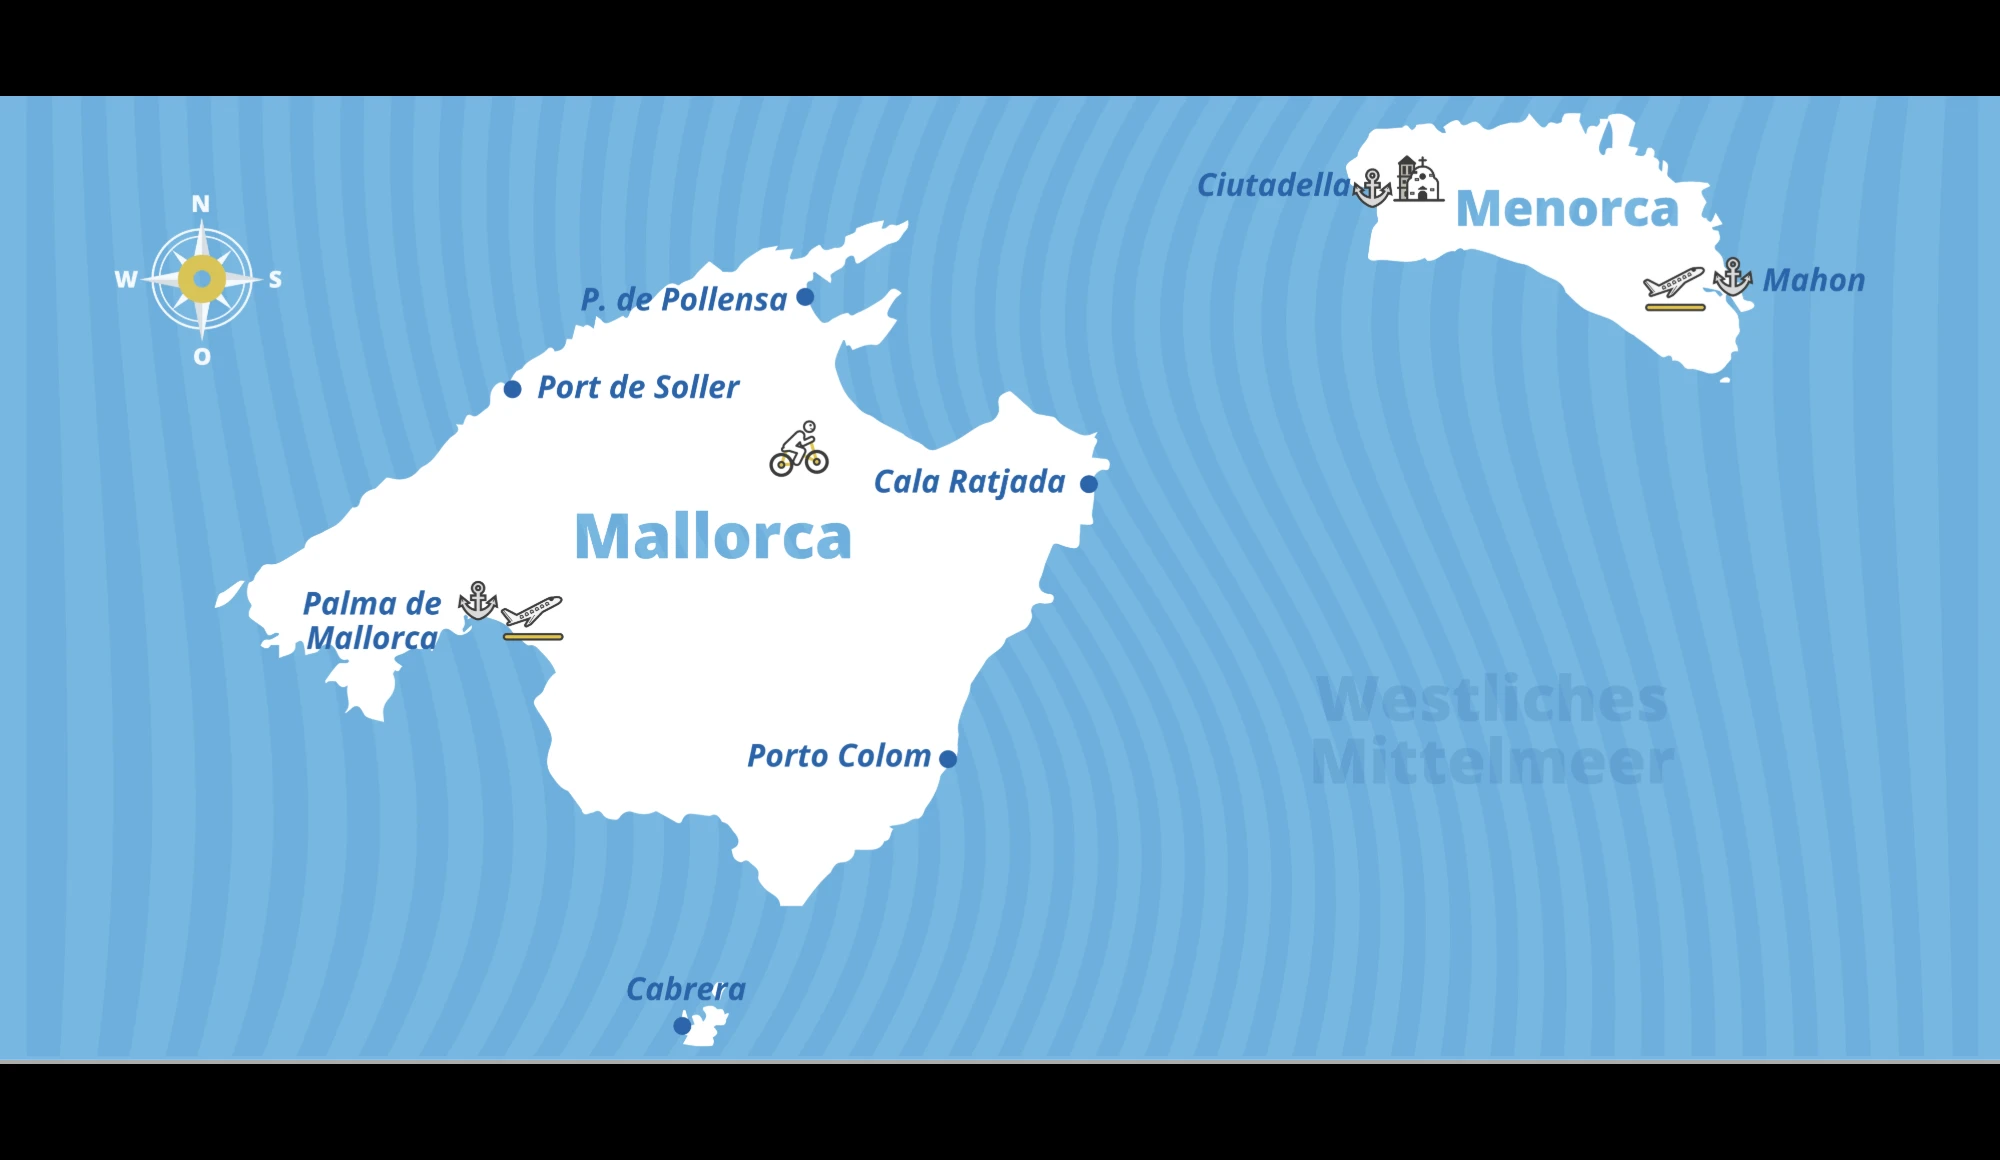
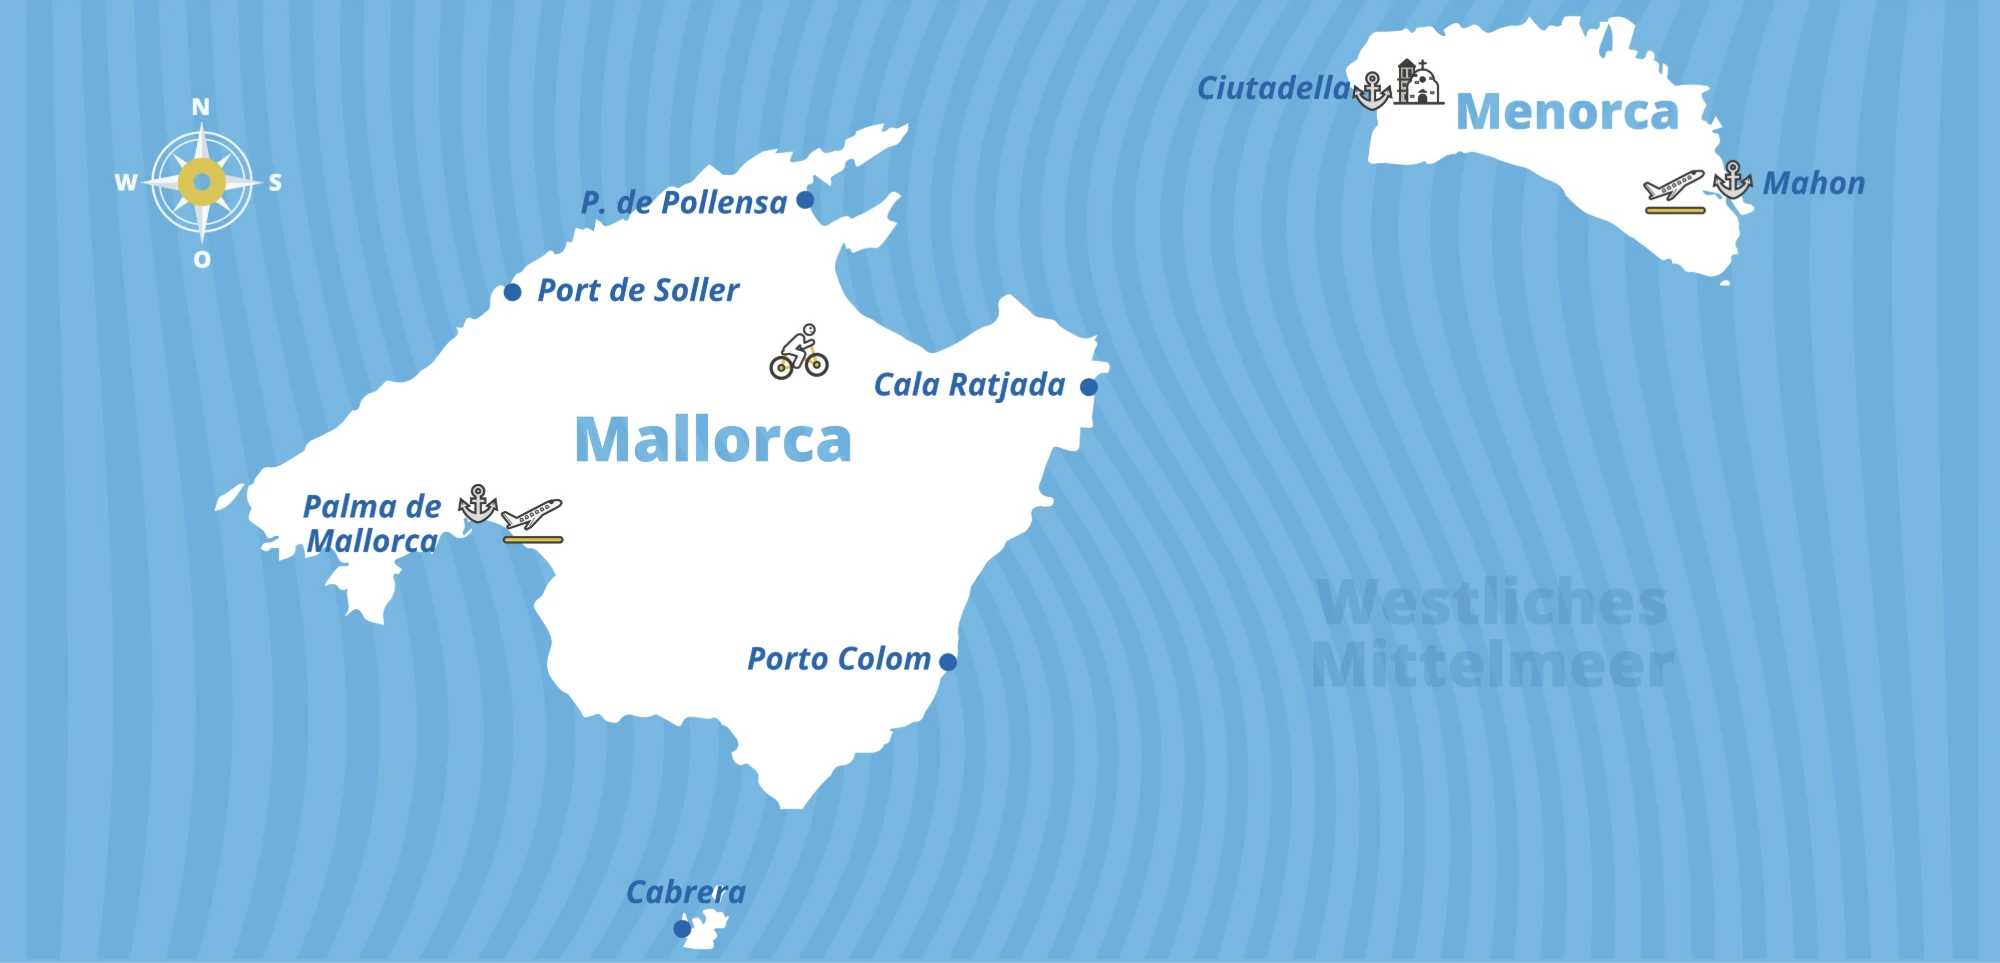
Improve trip report photos: fix map borders, new heroes, better images
- Fix black borders on the Mallorca/Menorca/Cabrera map graphic (DE),
  caused by transparent PNG areas rendering as black.
- Give Mallorca/Menorca/Cabrera a proper photo hero (fortress over the
  Cabrera anchorage) in both languages, and add the same photo inline
  near the Cabrera section with a translated, accessible caption.
- Use a wider, more scenic frame for the Dodecanese hero so water,
  land, and sky are all visible.
- Replace the harbor photo in the Split-to-Dubrovnik report with a
  sunset shot over Hvar, in both languages.

diff --git a/src/data/toernberichte.ts b/src/data/toernberichte.ts
@@ -195,7 +195,7 @@ export const toernberichte: Toernbericht[] = [
     title: "Dodekanes",
     teaser: "Eine faszinierende Reise durch die Inselwelt der östlichen Ägäis",
     cardImg: "/images/toernberichte/teaser/20190528_201228.jpg",
-    hero: "/images/toernberichte/eine-faszinierende-reise-durch-die-inselwelt-der-dodekanes-in-der-aegaeis/20190601_091540.jpg",
+    hero: "/images/toernberichte/eine-faszinierende-reise-durch-die-inselwelt-der-dodekanes-in-der-aegaeis/20190529_110554.jpg",
     blocks: [
       { t: "h", x: "Dodekanes" },
       { t: "h", x: "Eine faszinierende Reise durch die Inselwelt der Ägäis" },
@@ -312,7 +312,7 @@ export const toernberichte: Toernbericht[] = [
       { t: "p", x: "Das Frühstück wurde erst nach dem Ablegen während der Fahrt aufgetischt, was angesichts der ruhigen See sehr willkommen war. Das erste Statement bei frischem Brot und heißem Kaffee \"So traumhaft hätte ich es mir nicht vorgestellt\", war von einem weiblichen Crewmitglied zu hören.\n Wir nahmen Kurs auf die Passage von Hvar, und von dort ging es Richtung Südsüdost nach Korcula, jene Stadt, die auch unser Tagesziel war. Wie gerufen kam leichter Wind auf und wir setzten die Segel. So konnten wir mit der alleinigen Kraft des Windes bis zur Passage bei Hvar segeln." },
       { t: 'i', x: "/images/toernberichte/von-split-nach-dubrovnik/3_03.jpg", c: "Hvar (Stadt)" },
       { t: "p", x: "Und dann passierte etwas Unvorhergesehenes:\n Ein Crewmitglied entdeckte das merkwürdige Hin- und Herhüpfen der Tankanzeigenadel, das den Skipper stutzig machte, da beim Segeln in der Regel der Motor abgeschaltet ist.\n Der Versuch, den Motor zu starten, misslang. Aufgrund des schwachen Windes war daher an ein Erreichen von Korcula unter Segel an diesem Tag nicht mehr zu denken. Der örtliche Service-Dienst, der immer einsatzbereit ist, war schnell zur Stelle:\n Durch den starken Regen des Vortages war im Start-Panel des Motors ein Wasserschaden entstanden - die Steuerung wurde durch den Service-Dienst ausgewechselt. In dieser Zeit gab es für einen Teil der Crew die Möglichkeit die Stadt Hvar zu entdecken, während andere in der gegenüberliegenden Badebucht den ersten Sprung ins Wasser wagten.\n Der Austausch des Panels war am späten Nachmittag erledigt. Die Crew entschied sich den Tag in der naheliegenden Marina ausklingen zu lassen - bei einem ausgezeichneten Essen in einem der besten Lokale des Landes." },
-      { t: 'i', x: "/images/toernberichte/von-split-nach-dubrovnik/4.png", c: "Blick auf den Hafen von Hvar" },
+      { t: 'i', x: "/images/toernberichte/von-split-nach-dubrovnik/hvar-sonnenuntergang.jpg", c: "Sonnenuntergang über dem Hafen von Hvar" },
       { t: "h", x: "Tag 3 Montag - Das Ziel weiter vor Augen" },
       { t: "p", x: "An diesem Morgen war die Crew sich einig: heute sollten wir weit kommen. Das Ablegen erfolgte am Vormittag, erneut mit Kurs auf Korcula." },
       { t: "p", x: "Der Tag wurde zum Relaxtag an Bord mit Musik, viel Lesen und Sonnenanbeten. Vorbei nochmals an der beeindruckenden Stadt Hvar und ein wenig später durch die Passage von Korcula. Das dort gegenüberliegende Gebirge erreicht eine Höhe von knapp 1000m und ist imposant bei jedem Anblick. Der Tag war schon etwas fortgeschritten, als eine gemütliche Bucht auf der Insel Mljet in einem kleinen Nationalpark als Ziel sehr verlockend klang. Und so schafften wir kurz vor 18 Uhr das Anlegen an einer Boje, die im Besitz eines örtlichen Restaurants war." },
@@ -484,7 +484,7 @@ export const toernberichte: Toernbericht[] = [
     title: "Mallorca - Menorca - Cabrera",
     teaser: "Eine Entdeckungstour durch die nördlichen Balearen",
     cardImg: "/images/toernberichte/teaser/Cabrera_02.png",
-    hero: "/images/toernberichte/mallorca-menorca-cabrera/1.png",
+    hero: "/images/toernberichte/mallorca-menorca-cabrera/16.jpg",
     blocks: [
       { t: "h", x: "Tag 1 - Von Zuhause auf die Yacht in nur 6 Stunden" },
       { t: "p", x: "Sehr einfach ist die Anreise auf Palma de Mallorca - von zu Hause, über den Flughafen bis zur Yacht in nur 6 Stunden, da auch unsere Startmarina \"El Arenal\" nur wenige Kilometer vom Flughafen mit dem Taxi erreichbar ist. Nach der üblichen Versorgungsprozedur und dem Einchecken in die Yacht ist es bereits 17 Uhr geworden. Die Marina El Arenal bietet nicht nur einen Swimming-Pool und ein gemütliches Restaurant, sondern liegt auch am Ende einer der bekanntesten Partymeilen für uns deutschsprachige: der Ballermann. Zwar nicht unser Fokus auf diesem Urlaub, aber viele Crews kommen extra in diese Marina, um den Ballermann zu besuchen - also schauen auch wir uns das Spektakel an. Ein Lokal reiht sich dem anderen - ganze Partytempel sind am Ballermann zu finden. Für den ersten Abend ein gelungener Einstieg in unseren 14-tägigen Segelurlaub. Man kann Stunden und Tage am Ballermann verbringen - wir sind allerdings nur kurz Gast, denn am nächsten Tag geht es los zu unserer Inselumrundung." },
@@ -533,6 +533,7 @@ export const toernberichte: Toernbericht[] = [
       { t: "p", x: "Am Abend ankern wir in der Cala Marsal nähe Porto Colom. Eine kleine Badebucht mit Strand, dahinter eine Hotelanlage und ein paar wenige Läden für unseren Einkauf.\n Mit dem Beiboot fahren wir zum Sandstrand, wo uns die Badegäste etwas verwundert anschauen. Es dürfte nicht oft passieren, dass hier Yacht-Urlauber an Land gehen. Ein nahegelegenes Lokal spricht uns an, um dort einen Tisch für das Abendessen zu reservieren. Anschließend erledigen wir unseren Einkauf und gehen zurück an Bord um den Proviant zu verstauen.\n Ein schöner Segeltag findet einen herrlichen Abschluss bei Schwimmen und gutem Essen." },
       { t: "h", x: "Tag 13 - Einer der schönsten Plätze" },
       { t: "p", x: "Unser vorletzter Segeltag bricht an. Wir können bei dem anhaltenden leichten Wind wieder die Segel setzen mit Kurs Richtung Cabrera. Cabrera ist eine kleine Naturschutzinsel, die einst eine Gefängnisinsel war. Um auf ihr Anlegen zu können, haben wir bereits zu Reisebeginn eine Boje reserviert. Es gibt nur eine große Bucht auf der gesamten Insel, die mit der Yacht befahren werden darf.\n Im Laufe des Nachmittags erreichen wir unser Tagesziel. Beim Anlegemanöver fällt die Ruderanlage aus, womit wir gezwungen sind, die Notpinne einzusetzen. Sie ersetzt die Ruderanlage und greift direkt am Ruderblatt an - etwas mehr Muskelkraft ist zum Steuern notwendig, da keine Übersetzung mehr vorhanden ist, jedoch für unseren Skipper kein Problem.\n Die einmalige Naturschönheit von Cabrera lässt sich bei einem Rundgang auf der Insel genießen. Zu erklimmen gibt es eine Ruine, Wanderwege führen durch das Naturschutzgebiet. Da auch das Fischen verboten ist, sind die Meeresbewohner sind sehr zutraulich und nicht verschreckt, wenn man ins Wasser geht." },
+      { t: 'i', x: "/images/toernberichte/mallorca-menorca-cabrera/16.jpg", c: "Die alte Festung von Cabrera hoch über der Ankerbucht" },
       { t: 'i', x: "/images/toernberichte/mallorca-menorca-cabrera/15.png", c: "Cabrera" },
       { t: "h", x: "Tag 14 - Ab nach Hause" },
       { t: "p", x: "Unser letzter Tag an Bord unserer Yacht bricht an. Mit ausgefallener Ruderanlage, somit mit Notpinne und Autopilot, geht es Richtung heimwärts, direkt zum Hafen El Arenal. Unser Ziel, Mallorca und Menorca zu umrunden, ist geschafft. Die Eindrücke können nicht vielseitiger sein. Der Frage nachzukommen, was einem am besten gefallen hat, ist nicht einfach. Zu viele Eindrücke waren es in den letzten 14 Tagen. Jedoch überwiegen bei allen die Freude und die Gewissheit, wieder nach Mallorca und den Balearen für einen Segelurlaub zu kommen." },

diff --git a/src/data/toernberichteEn.ts b/src/data/toernberichteEn.ts
@@ -190,7 +190,7 @@ export const toernberichteEn: Toernbericht[] = [
     title: "The Dodecanese",
     teaser: "A fascinating journey through the islands of the eastern Aegean",
     cardImg: "/images/toernberichte/teaser/20190528_201228.jpg",
-    hero: "/images/toernberichte/eine-faszinierende-reise-durch-die-inselwelt-der-dodekanes-in-der-aegaeis/20190601_091540.jpg",
+    hero: "/images/toernberichte/eine-faszinierende-reise-durch-die-inselwelt-der-dodekanes-in-der-aegaeis/20190529_110554.jpg",
     blocks: [
       { t: "h", x: "The Dodecanese" },
       { t: "h", x: "A Fascinating Journey Through the Islands of the Aegean" },
@@ -306,7 +306,7 @@ export const toernberichteEn: Toernbericht[] = [
       { t: "p", x: "Breakfast wasn't served until after we'd cast off and were underway, which — with the sea this calm — was very welcome. Over fresh bread and hot coffee, the first comment of the day, from one of the female crew members, was: \"I never imagined it could be this gorgeous.\" We set a course through the Hvar channel, then continued south-southeast toward Korčula, our destination for the day. As if on cue, a light breeze picked up and we raised the sails, making it all the way to the Hvar channel on wind power alone." },
       { t: "i", x: "/images/toernberichte/von-split-nach-dubrovnik/3_03.jpg", c: "The town of Hvar" },
       { t: "p", x: "Then something unexpected happened. A crew member noticed the fuel gauge needle jumping strangely back and forth, which caught the skipper's attention, since the engine is normally off while sailing. An attempt to start the engine failed. With the wind this light, reaching Korčula under sail alone was no longer realistic for the day. The local service team, always ready to help, arrived quickly: heavy rain the day before had caused water damage to the engine's start panel, and the technicians swapped out the control unit on the spot. While that was underway, part of the crew got to explore the town of Hvar, while others took their first plunge into the swimming cove across the way. The panel swap was finished by late afternoon, and the crew decided to wrap up the day right there in the nearby marina — with an excellent dinner at one of the country's best restaurants." },
-      { t: "i", x: "/images/toernberichte/von-split-nach-dubrovnik/4.png", c: "A view of Hvar's harbor" },
+      { t: "i", x: "/images/toernberichte/von-split-nach-dubrovnik/hvar-sonnenuntergang.jpg", c: "Sunset over Hvar's harbor" },
       { t: "h", x: "Day 3, Monday – Eyes on the Prize" },
       { t: "p", x: "That morning the crew agreed: today we needed to cover real distance. We cast off in the late morning, once again bound for Korčula." },
       { t: "p", x: "The day turned into a relaxed one on board — music, plenty of reading, and sunbathing. We passed the striking town of Hvar once more, and a little later sailed through the Korčula channel. The mountains on the opposite shore rise to nearly 1,000 meters and look impressive from every angle. The day was already getting on when a cozy bay on the island of Mljet, inside a small national park, sounded irresistible as our next stop. We managed to tie up to a buoy — owned by a local restaurant — just before 6 p.m." },
@@ -478,7 +478,7 @@ export const toernberichteEn: Toernbericht[] = [
     title: "Mallorca – Menorca – Cabrera",
     teaser: "A discovery tour through the northern Balearics",
     cardImg: "/images/toernberichte/teaser/Cabrera_02.png",
-    hero: "/images/toernberichte/mallorca-menorca-cabrera/1-en.png",
+    hero: "/images/toernberichte/mallorca-menorca-cabrera/16.jpg",
     blocks: [
       { t: "h", x: "Day 1 – From Home to the Yacht in Just 6 Hours" },
       { t: "p", x: "Getting to Palma de Mallorca couldn't be easier — from home, through the airport, and onto the yacht in just six hours, since our starting marina, \"El Arenal,\" is only a short taxi ride from the airport. After the usual provisioning and checking in on the yacht, it was already 5 p.m. Marina El Arenal doesn't just have a swimming pool and a cozy restaurant — it also sits right at the end of one of the most famous party strips for German-speaking tourists: the Ballermann. Not exactly the focus of this trip, but plenty of crews come to this marina specifically to check it out — so we took a look at the spectacle too. Bar after bar, entire party palaces line the strip. A fun way to kick off the first night of our two-week sailing holiday. You could easily spend hours, or days, at the Ballermann — but we were only brief guests, since the island circumnavigation was starting the next day." },
@@ -528,6 +528,7 @@ export const toernberichteEn: Toernbericht[] = [
       { t: "p", x: "That evening we anchored at Cala Marçal, near Porto Colom — a small swimming cove with a beach, a hotel behind it, and a handful of shops for supplies. We took the dinghy to the sandy beach, where the sunbathers eyed us with some curiosity — it probably isn't often that sailing tourists come ashore here. A nearby restaurant caught our attention, so we booked a table there for dinner, then finished our shopping and headed back on board to stow the provisions. A wonderful day of sailing found a fitting close with a swim and a good meal." },
       { t: "h", x: "Day 13 – One of the Most Beautiful Spots" },
       { t: "p", x: "Our second-to-last day of sailing dawned, and with the steady light wind we raised the sails once more, heading for Cabrera. Cabrera is a small nature reserve island that was once used as a prison island. To be allowed to anchor there, we'd reserved a buoy back at the start of our trip — there's only one large bay on the entire island where yachts are permitted. By mid-afternoon we reached our destination for the day. During the docking maneuver, the steering system failed, forcing us to switch to the emergency tiller. It takes the place of the regular steering and connects directly to the rudder blade — steering takes noticeably more muscle without any mechanical advantage, but it was no problem at all for our skipper. Cabrera's singular natural beauty is best enjoyed with a walk around the island — there's a ruin to climb, and hiking trails wind through the nature reserve. Since fishing is banned here too, the marine life is remarkably tame and unbothered when you go for a swim." },
+      { t: "i", x: "/images/toernberichte/mallorca-menorca-cabrera/16.jpg", c: "The old fortress of Cabrera, high above the anchorage" },
       { t: "i", x: "/images/toernberichte/mallorca-menorca-cabrera/15.png", c: "Cabrera" },
       { t: "h", x: "Day 14 – Heading Home" },
       { t: "p", x: "Our last day aboard our yacht dawned. With the steering still out, relying on the emergency tiller and autopilot, we headed home, straight for the harbor at El Arenal. We'd achieved our goal of circling Mallorca and Menorca. It's hard to say which impressions stand out the most — there were simply too many over the past 14 days. What everyone agrees on, though, is the joy of the trip and the certainty that we'll be back to Mallorca and the Balearics for another sailing holiday." },
